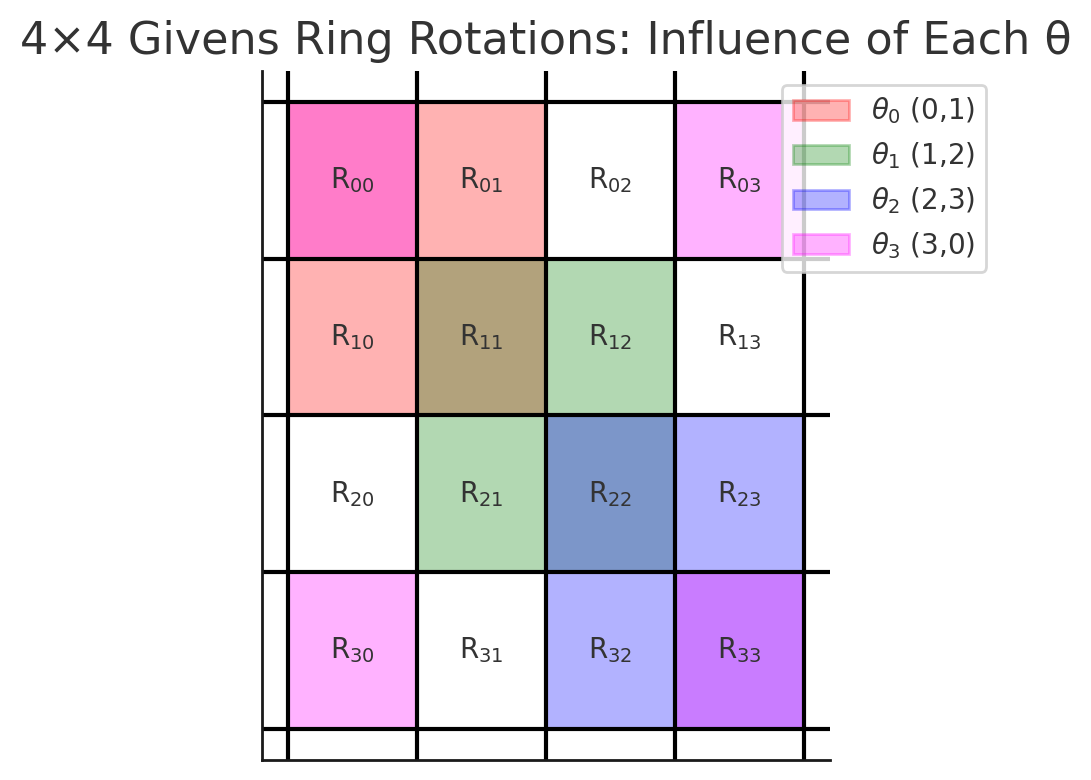
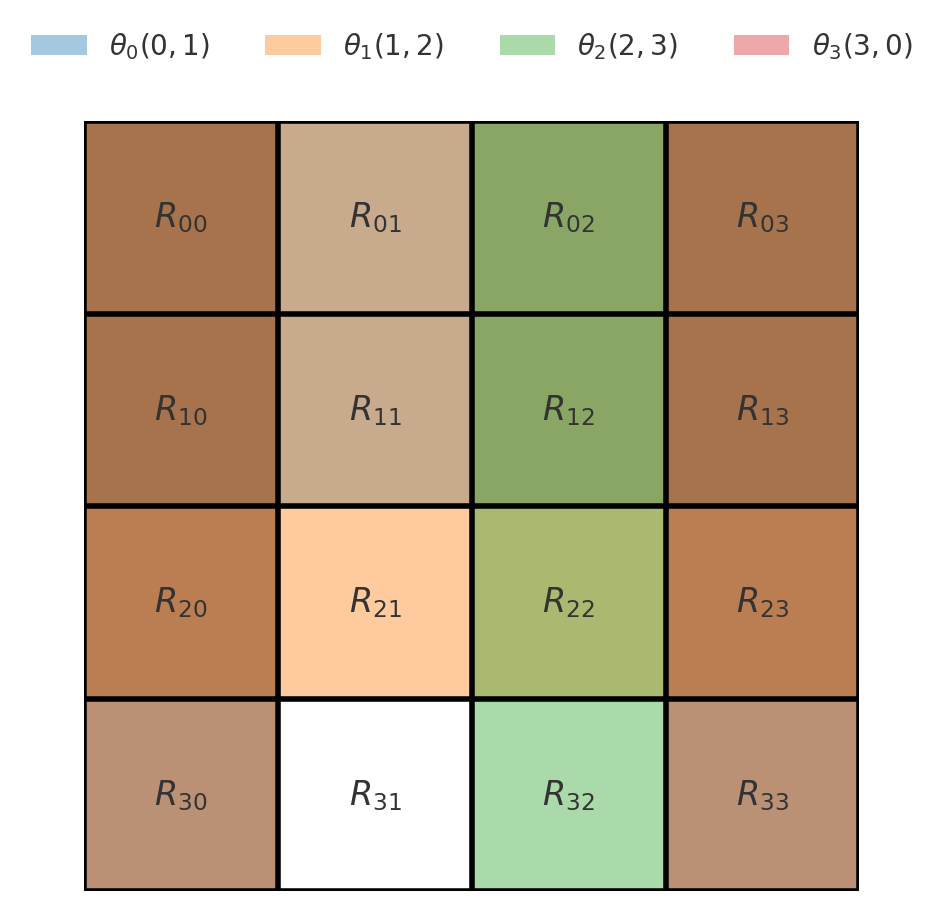
fix parm influence

diff --git a/givens-rotation-param-influence.py b/givens-rotation-param-influence.py
@@ -1,0 +1,54 @@
+import numpy as np
+a = np.array([
+[2,2,0,0],
+[2,2,0,0],
+[0,0,1,0],
+[0,0,0,1],
+])
+b = np.array([
+[1,0,0,0],
+[0,3,3,0],
+[0,3,3,0],
+[0,0,0,1],
+])
+c = [
+[1,0,0,0],
+[0,1,0,0],
+[0,0,4,4],
+[0,0,4,4],
+]
+d = [
+[5,0,0,5],
+[0,1,0,0],
+[0,0,1,0],
+[5,0,0,5],
+]
+print(a@b@c@d)
+
+import sympy as sp
+num_params = 4
+planes = [(i, (i+1) % num_params) for i in range(num_params)]
+angles = sp.symbols('θ0 θ1 θ2 θ3', real=True)
+rotations = sp.eye(num_params)
+# sequentially apply each Givens rotation
+for (i, j), angle in zip(planes, angles):
+    c = sp.cos(angle)
+    s = sp.sin(angle)
+    givens_rotation = sp.eye(num_params)
+    # 2×2 block in the (i,j) plane
+    givens_rotation[i, i] = c;  givens_rotation[j, i] = s
+    givens_rotation[i, j] = -s; givens_rotation[j, j] = c
+    rotations = rotations @ givens_rotation
+
+# for each entry, collect which θ’s actually appear
+influence = {}
+for i in range(4):
+    for j in range(4):
+        influence[(i,j)] = {θ for θ in angles if θ in sp.simplify(rotations[i,j]).free_symbols}
+
+for i in range(4):
+    row = []
+    for j in range(4):
+        deps = sorted(str(t) for t in influence[(i,j)])
+        row.append("{" + ",".join(deps) + "}")
+    print("row", i, ":", row)

diff --git a/README.md b/README.md
@@ -106,6 +106,13 @@ Unfortunately, this necessarily breaks the enforcement of unitarity on each indi
 *Source: Stanford Exploration Project, “Givens Rotations,” Stanford University, December 18, 1997. [https://sepwww.stanford.edu/data/media/public/docs/sep70/steve2/paper_html/node2.html](https://sepwww.stanford.edu/data/media/public/docs/sep70/steve2/paper_html/node2.html)*
 ![Figure figure_num_a: Influence of Each Free Angle Parameter in the Final Weight Matrix](./images/givens-rotation-param-influence.png)
 
+```
+{θ0,θ1,θ2,θ3} | {θ0,θ1} | {θ0,θ1,θ2} | {θ0,θ1,θ2,θ3}
+{θ0,θ1,θ2,θ3} | {θ0,θ1} | {θ0,θ1,θ2} | {θ0,θ1,θ2,θ3}
+{θ1,θ2,θ3}    | {θ1}    | {θ1,θ2}    | {θ1,θ2,θ3}
+{θ2,θ3}       | {}      | {θ2}       | {θ2,θ3}
+```
+
 While this "coupling" is not a perfect analogue to the quantum architecture even beyond the forced break in parity — since in a quantum system the qubits themselves are inherently correlated — it does allow a type of correlation between the effects of each feature's rotations.
 This engineered coupling mimics, to some extent, the way local gate parameters interact in quantum circuits, though it does not reproduce the full complexity of quantum entanglement.
 In the Banded givens rotations parameterization, the coupling is a consequence of the mapping process itself.
